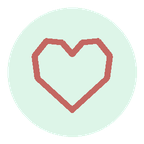
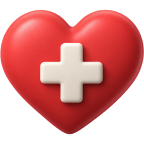
feat(ui): harmonise les emojis 3D du plan d'arret, des stats et de l'onboarding
- Onboarding : devise avant prix, nouveaux emojis 3D motivations, ecran objectif HD
- Plan : impact en 3 lignes (argent, vie recuperee par an, sante), icones coherentes
- Stats : retire le bandeau courbe, cible agrandie, mascotte sur le resume

diff --git a/src/screens/PlanScreen.js b/src/screens/PlanScreen.js
@@ -145,7 +145,6 @@ function ImpactModal({ info, onClose }) {
         <View style={im.card}>
           {info.type === 'savings'   && <SavingsBody info={info} t={t} />}
           {info.type === 'lifeMonth' && <LifeMonthBody info={info} t={t} />}
-          {info.type === 'lifeYear'  && <LifeYearBody info={info} t={t} />}
           {info.type === 'health'    && <HealthBody info={info} t={t} />}
           {!info.type && <GenericBody info={info} />}
 
@@ -178,7 +177,7 @@ function SavingsBody({ info, t }) {
           </View>
           <Text style={im.baArrow}>→</Text>
           <View style={im.baBox}>
-            <Image source={UI.cible_objectif} style={im.baIllus} resizeMode="contain" />
+            <Image source={UI.cible_fleche_feuillue} style={im.baIllus} resizeMode="contain" />
             <Text style={im.baLabel}>{t('impact.savings.goalLabel')}</Text>
             <Text style={im.baValue}>{info.savings.objectif}</Text>
             <Text style={im.baUnit}>{t('impact.savings.unitPerDay')}</Text>
@@ -188,7 +187,7 @@ function SavingsBody({ info, t }) {
 
       {info.savings && (
         <View style={im.evitees}>
-          <Image source={UI.feuille_cigarettes_evitees} style={{ width: 40, height: 40 }} resizeMode="contain" />
+          <Image source={UI.cigarette} style={{ width: 40, height: 40 }} resizeMode="contain" />
           <View style={{ flex: 1 }}>
             <Text style={im.eviteesValue}>{t('impact.savings.avoidedPerDay', { count: info.savings.cigEviteesJour })}</Text>
             <Text style={im.eviteesLabel}>{t('impact.savings.avoidedSub')}</Text>
@@ -207,7 +206,7 @@ function SavingsBody({ info, t }) {
       {/* 3 projections */}
       {info.projections && (
         <View style={im.projRow}>
-          {[UI.calendrier_mois, UI.arbre_annee, UI.montagnes_10_ans].map((img, i) => info.projections[i] && (
+          {[UI.pile_pieces_feuilles, UI.portefeuille_euros_feuilles, UI.tirelire].map((img, i) => info.projections[i] && (
             <View key={i} style={im.projCard}>
               <Image source={img} style={im.projIllus} resizeMode="contain" />
               <Text style={im.projValue}>{info.projections[i].valeur}</Text>
@@ -235,9 +234,9 @@ function LifeMonthBody({ info, t }) {
 
       {info.projections && (
         <View style={im.projRow}>
-          {[UI.horloge_mois, UI.feuille_annee, UI.coeur_10_ans].map((img, i) => info.projections[i] && (
+          {[UI.reveil, UI.calendrier_10_ans_recadre, UI.sablier_bois_feuilles].map((img, i) => info.projections[i] && (
             <View key={i} style={im.projCard}>
-              <Image source={img} style={im.projIllus} resizeMode="contain" />
+              <Image source={img} style={[im.projIllus, i === 1 && { transform: [{ scale: 1.05 }] }]} resizeMode="contain" />
               <Text style={im.projValue}>{info.projections[i].valeur}</Text>
               <Text style={im.projLabel}>{info.projections[i].label}</Text>
             </View>
@@ -246,32 +245,6 @@ function LifeMonthBody({ info, t }) {
       )}
 
       {info.note && <Text style={im.note}>{info.note}</Text>}
-    </>
-  );
-}
-
-// ── Body : Vie récupérée par an (écran 07) ───────────────────────────────────
-function LifeYearBody({ info, t }) {
-  return (
-    <>
-      <View style={im.headerRow}>
-        <Image source={UI.coeur_titre} style={im.headerIllus} resizeMode="contain" />
-        <Text style={im.titre}>{info.titre}</Text>
-      </View>
-
-      <Text style={im.explication}>{info.explication}</Text>
-
-      {info.projections && (
-        <View style={im.projRow}>
-          {[UI.feuille_annee, UI.calendrier_10_ans, UI.etoile_vie].map((img, i) => info.projections[i] && (
-            <View key={i} style={im.projCard}>
-              <Image source={img} style={im.projIllus} resizeMode="contain" />
-              <Text style={im.projValue}>{info.projections[i].valeur}</Text>
-              <Text style={im.projLabel}>{info.projections[i].label}</Text>
-            </View>
-          ))}
-        </View>
-      )}
     </>
   );
 }
@@ -506,10 +479,10 @@ export default function PlanScreen({ navigation }) {
               })}
             />
             <ImpactCard
-              img={UI.chronometre} valeur={`+${vieGagneeHMois}h`} label={t('impact.life.label')} sublabel={t('labels.perMonth')} valeurColor={colors.primary}
+              img={UI.chronometre} valeur={`+${vieGagneeJAn}j`} label={t('impact.life.label')} sublabel={t('labels.perYear')} valeurColor={colors.primary}
               onPress={() => setImpactModal({
                 type: 'lifeMonth',
-                titre: t('impact.lifeMonth.modalTitle'),
+                titre: t('impact.lifeYear.modalTitle'),
                 explication: t('impact.lifeMonth.explanation', { count: cigEviteesJour, minutes: cigEviteesJour * 5, hours: vieGagneeHMois }),
                 projections: [
                   { valeur: `+${vieGagneeHMois}h`, label: t('labels.perMonth') },
@@ -519,20 +492,7 @@ export default function PlanScreen({ navigation }) {
               })}
             />
             <ImpactCard
-              img={UI.coeur_titre} valeur={`+${vieGagneeJAn}j`} label={t('impact.life.label')} sublabel={t('labels.perYear')} valeurColor={colors.primary}
-              onPress={() => setImpactModal({
-                type: 'lifeYear',
-                titre: t('impact.lifeYear.modalTitle'),
-                explication: t('impact.lifeYear.explanation', { count: cigEviteesJour, days: vieGagneeJAn }),
-                projections: [
-                  { valeur: `+${vieGagneeJAn}j`, label: t('labels.perYear') },
-                  { valeur: `+${vie10Aff}j`, label: t('labels.per10Years') },
-                  { valeur: t('impact.lifeYear.monthsValue', { count: Math.round(vie10Aff / 30) }), label: t('impact.lifeYear.moreLifeLabel') },
-                ],
-              })}
-            />
-            <ImpactCard
-              img={UI.poumons_titre} valeur={t('impact.health.value')} label={t('impact.health.label')} sublabel={t('impact.health.sublabel')} valeurColor={colors.primary}
+              img={UI.poumons_titre} valeur={`${t('impact.health.value')} ${t('impact.health.label')}`} sublabel={t('impact.health.sublabel')} valeurColor={colors.primary}
               onPress={() => setImpactModal({
                 type: 'health',
                 titre: t('impact.health.modalTitle'),
@@ -813,13 +773,12 @@ export default function PlanScreen({ navigation }) {
 function ImpactCard({ img, valeur, label, sublabel, valeurColor = colors.black, onPress }) {
   return (
     <TouchableOpacity style={styles.impactCard} onPress={onPress} activeOpacity={0.7}>
-      <View style={{ flexDirection: 'row', width: '100%', justifyContent: 'space-between' }}>
-        <Image source={img} style={styles.impactIllus} resizeMode="contain" />
-        <Text style={{ fontSize: 13, color: colors.gray }}>ⓘ</Text>
+      <Image source={img} style={styles.impactIllus} resizeMode="contain" />
+      <View style={{ flex: 1 }}>
+        <Text style={[styles.impactValeur, { color: valeurColor }]}>{valeur}</Text>
+        <Text style={styles.impactLabel}>{[label, sublabel].filter(Boolean).join(' · ')}</Text>
       </View>
-      <Text style={[styles.impactValeur, { color: valeurColor }]}>{valeur}</Text>
-      <Text style={styles.impactLabel}>{label}</Text>
-      <Text style={styles.impactSub}>{sublabel}</Text>
+      <Text style={{ fontSize: 13, color: colors.gray }}>ⓘ</Text>
     </TouchableOpacity>
   );
 }
@@ -876,16 +835,14 @@ const styles = StyleSheet.create({
   },
 
   // Impact
-  impactGrid: { flexDirection: 'row', flexWrap: 'wrap', gap: spacing.sm },
+  impactGrid: { gap: spacing.sm },
   impactCard: {
-    width: (SCREEN_W - spacing.md * 4 - spacing.sm) / 2,
+    flexDirection: 'row', alignItems: 'center', gap: spacing.sm,
     backgroundColor: '#F7F8FA', borderRadius: radius.lg, padding: spacing.sm,
-    alignItems: 'flex-start',
   },
-  impactIllus:  { width: 30, height: 30, marginBottom: 4 },
+  impactIllus:  { width: 40, height: 40 },
   impactValeur: { fontSize: font.md, fontWeight: '800', color: colors.black },
-  impactLabel:  { fontSize: 11, color: colors.gray },
-  impactSub:    { fontSize: 10, color: colors.gray },
+  impactLabel:  { fontSize: 11, color: colors.gray, marginTop: 2 },
 
   // Projection
   projRow: { flexDirection: 'row', alignItems: 'center', justifyContent: 'space-between', marginBottom: spacing.sm },

diff --git a/src/screens/onboarding/OnboardingFlow.js b/src/screens/onboarding/OnboardingFlow.js
@@ -38,6 +38,10 @@ const REDUCTION_RYTHME_HD = {
   goal: require('../../../assets/onboarding/reduction-rythme-hd/objectif-du-jour.png'),
   journey: require('../../../assets/onboarding/stopklop-illustrations-hd/illustrations/09-reduction-progressive.jpg'),
 };
+const OBJECTIF_HD = {
+  reduce: require('../../../assets/onboarding/objectif-hd/reduire-progressivement.png'),
+  stop: require('../../../assets/onboarding/objectif-hd/arreter-completement.png'),
+};
 const DESIGN = { ink: '#0B5135', green: '#0AA85B', muted: '#4B6358', mint: '#DDF5E8', border: '#E6EEE9' };
 
 // Police livrée avec la maquette finale, limitée à l'onboarding.
@@ -231,10 +235,10 @@ export default function OnboardingFlow({ navigation, route }) {
     'objectif',                        // 10
     'conso',                           // 11
     'paquet',                          // 12
-    'prix',                            // 13
-    'dateDebut',                       // 14
-    'objectifQuotidien',               // 15 (si réduction)
-    'devise',                          // 16
+    'devise',                          // 13
+    'prix',                            // 14
+    'dateDebut',                       // 15
+    'objectifQuotidien',               // 16 (si réduction)
     'motivations',                     // 17
     'niveauMotivation',                // 18
     'synthese',                        // 19
@@ -556,7 +560,6 @@ export default function OnboardingFlow({ navigation, route }) {
             <StatCard img={V2.statTime} teinte="#EFE9FB"
               valeur={t('benefits.stats.timeValue')} label={t('benefits.stats.timeNote')} />
             <View style={st.chartCard}>
-              <Text style={st.chartCardTitre}>{t('benefits.stats.chartTitle')}</Text>
               <Image source={V2.courbeEvolution} style={st.chartAsset} resizeMode="contain" />
             </View>
             <Text style={st.disclaimer}>{t('benefits.stats.disclaimer')}</Text>
@@ -569,28 +572,26 @@ export default function OnboardingFlow({ navigation, route }) {
   else if (page === 'objectif') {
     body = (
       <>
-        <Text style={st.title}>{t('goalType.title')}</Text>
-        <Text style={st.subtitle}>{t('goalType.subtitle')}</Text>
+        <Text style={st.goalTypeTitle}>{t('goalType.title')}</Text>
+        <Text style={st.goalTypeSubtitle}>{t('goalType.subtitle')}</Text>
         {[
-          { key: 'reduce', img: V2.goalReduce, titre: t('goalType.options.reduce.title'), desc: t('goalType.options.reduce.desc') },
-          { key: 'stop',   img: V2.goalStop,   titre: t('goalType.options.stop.title'),   desc: t('goalType.options.stop.desc') },
+          { key: 'reduce', img: OBJECTIF_HD.reduce, titre: t('goalType.options.reduce.title') },
+          { key: 'stop',   img: OBJECTIF_HD.stop,   titre: t('goalType.options.stop.title') },
         ].map(o => (
           <TouchableOpacity
             key={o.key}
-            style={[st.objectifCard, o.key === 'stop' && st.objectifCardStop, answers.typeObjectif === o.key && st.objectifCardActive]}
+            style={[st.objectifHdCard, o.key === 'stop' && st.objectifHdCardStop, answers.typeObjectif === o.key && st.objectifCardActive]}
             onPress={() => set('typeObjectif', o.key)}
           >
-            <Image source={o.img} style={st.objectifImg} resizeMode="contain" />
-            <View style={{ flex: 1 }}>
-              <Text style={st.choixTitre}>{o.titre}</Text>
-              <Text style={st.choixDesc}>{o.desc}</Text>
+            <View style={st.objectifHdCopy}>
+              <Text style={[st.objectifHdTitle, o.key === 'stop' && st.objectifHdTitleStop]}>{o.titre}</Text>
             </View>
+            <Image source={o.img} style={st.objectifHdImage} resizeMode="contain" />
             {answers.typeObjectif === o.key && (
-              <View style={st.checkBadge}><Text style={{ color: '#fff', fontWeight: '800' }}>✓</Text></View>
+              <View style={[st.checkBadge, st.objectifHdBadge]}><Text style={{ color: '#fff', fontWeight: '800' }}>✓</Text></View>
             )}
           </TouchableOpacity>
         ))}
-        <Text style={st.footerNote}>{t('goalType.note')}</Text>
       </>
     );
   }
@@ -649,6 +650,31 @@ export default function OnboardingFlow({ navigation, route }) {
             <Text style={st.stepperBtnText}>+</Text>
           </TouchableOpacity>
         </View>
+      </>
+    );
+  }
+
+  else if (page === 'devise') {
+    body = (
+      <>
+        <Text style={st.title}>{t('currency.title')}</Text>
+        <Text style={st.subtitle}>{t('currency.subtitle')}</Text>
+        {DEVISES.map(d => (
+          <TouchableOpacity
+            key={d.code}
+            style={[st.choixCard, answers.monnaie === d.code && st.choixCardActive]}
+            onPress={() => set('monnaie', d.code)}
+          >
+            <Image source={DEVISE_ICONS[d.code]} style={{ width: 48, height: 48 }} resizeMode="contain" />
+            <View style={{ flex: 1 }}>
+              <Text style={st.choixTitre}>{t(`currency.options.${d.code}.name`)}</Text>
+              <Text style={st.choixDesc}>{t(`currency.options.${d.code}.code`)}</Text>
+            </View>
+            {answers.monnaie === d.code && (
+              <View style={st.checkBadge}><Text style={{ color: '#fff', fontWeight: '800' }}>✓</Text></View>
+            )}
+          </TouchableOpacity>
+        ))}
       </>
     );
   }
@@ -721,31 +747,6 @@ export default function OnboardingFlow({ navigation, route }) {
             {t('dailyGoal.error', { count: consoNormalisee })}
           </Text>
         )}
-      </>
-    );
-  }
-
-  else if (page === 'devise') {
-    body = (
-      <>
-        <Text style={st.title}>{t('currency.title')}</Text>
-        <Text style={st.subtitle}>{t('currency.subtitle')}</Text>
-        {DEVISES.map(d => (
-          <TouchableOpacity
-            key={d.code}
-            style={[st.choixCard, answers.monnaie === d.code && st.choixCardActive]}
-            onPress={() => set('monnaie', d.code)}
-          >
-            <Image source={DEVISE_ICONS[d.code]} style={{ width: 48, height: 48 }} resizeMode="contain" />
-            <View style={{ flex: 1 }}>
-              <Text style={st.choixTitre}>{t(`currency.options.${d.code}.name`)}</Text>
-              <Text style={st.choixDesc}>{t(`currency.options.${d.code}.code`)}</Text>
-            </View>
-            {answers.monnaie === d.code && (
-              <View style={st.checkBadge}><Text style={{ color: '#fff', fontWeight: '800' }}>✓</Text></View>
-            )}
-          </TouchableOpacity>
-        ))}
       </>
     );
   }
@@ -1368,6 +1369,20 @@ const st = StyleSheet.create({
   objectifCardStop: { backgroundColor: '#FBF8FF', borderColor: '#E5DCF1' },
   objectifCardActive: { borderColor: DESIGN.green, borderWidth: 2 },
   objectifImg: { width: 78, height: 78 },
+  goalTypeTitle: { color: DESIGN.ink, fontSize: 27, lineHeight: 34, fontWeight: '700', textAlign: 'center', marginTop: 6 },
+  goalTypeSubtitle: { color: DESIGN.muted, fontSize: 16, lineHeight: 23, textAlign: 'center', marginTop: 17, marginBottom: 30, paddingHorizontal: 16 },
+  objectifHdCard: { minHeight: 124, flexDirection: 'row', alignItems: 'center', overflow: 'hidden', borderWidth: 1.5, borderColor: '#D5EBDC', borderRadius: 22, marginBottom: 20, backgroundColor: '#F1FBF4' },
+  objectifHdCardStop: { backgroundColor: '#FBF8FF', borderColor: '#E7DEF4' },
+  objectifHdCopy: { flex: 1, paddingLeft: 20, paddingRight: 6 },
+  // « progressivement » est le mot le plus long : il doit tenir avec de la
+  // marge, sinon il se coupe dès que la bordure de sélection (2 pt) mange un
+  // pixel. 18 pt + illustration 106 pt laissent ~20 pt de jeu.
+  objectifHdTitle: { color: '#0A9C56', fontSize: 18, lineHeight: 24, fontWeight: '700' },
+  objectifHdTitleStop: { color: '#7047B5' },
+  objectifHdImage: { width: 106, height: 88, marginRight: 14 },
+  // Coche posée dans le coin : dans la rangée, elle recomprimait la colonne
+  // de texte et recoupait « progressivement » au milieu du mot.
+  objectifHdBadge: { position: 'absolute', top: 10, right: 10 },
   choixTitre: { fontSize: font.md, fontWeight: '700', color: colors.black },
   choixDesc:  { fontSize: 12, color: colors.gray, marginTop: 2 },
   choixImg:   { width: 52, height: 52, borderRadius: 26 },

diff --git a/src/screens/StatistiquesScreen.js b/src/screens/StatistiquesScreen.js
@@ -799,14 +799,6 @@ export default function StatistiquesScreen() {
             <Text style={styles.unreportedLegend}>● {t('smokedCard.unreportedLegend')}</Text>
           )}
 
-          {/* Bannière conseil sous le graphique (réf. maquette) */}
-          <View style={styles.chartTip}>
-            <Text style={styles.chartTipIcon}>🍃</Text>
-            <Text style={styles.chartTipText}>
-              {p.progression >= 0 ? t('smokedCard.tipPositive') : t('smokedCard.tipNegative')}
-            </Text>
-          </View>
-
           {/* Overlay : nombre de cigarettes du jour/mois tapé, sans changer de page */}
           {tappedIndex != null && view.fullLabel && (
             <View style={styles.tapOverlay}>
@@ -993,7 +985,7 @@ export default function StatistiquesScreen() {
 
         {/* ── Résumé narratif (pas de liste à puces — réf. maquette) ── */}
         <View style={styles.summaryCard}>
-          <Image source={UI.pousse_resume} style={styles.summaryIllus} resizeMode="contain" />
+          <Image source={UI.mascotte_entete} style={styles.summaryIllus} resizeMode="contain" />
           <View style={{ flex: 1, minWidth: 0 }}>
             <Text style={styles.summaryTitle}>{t('summaryCard.title')}</Text>
             <Text style={styles.summaryText}>
@@ -1040,7 +1032,7 @@ const styles = StyleSheet.create({
   card:   { backgroundColor: colors.surface, borderRadius: radius.xl, padding: spacing.lg, borderWidth: 1, borderColor: colors.grayBorder, ...shadow.card },
   cardHeader: { flexDirection: 'row', alignItems: 'center', gap: 6, marginBottom: spacing.sm },
   cardIcon:   { fontSize: 18 },
-  cardIllus:  { width: 28, height: 28 },
+  cardIllus:  { width: 38, height: 38 },
   cardTitle:  { fontSize: font.sm, fontWeight: '700', color: colors.black, flex: 1 },
   cardPeriod: { fontSize: 11, color: colors.gray },
 
@@ -1182,9 +1174,6 @@ const styles = StyleSheet.create({
   chartTagText: { fontSize: 11, fontWeight: '700', color: colors.primaryDeep },
 
   // Bannière conseil sous le graphique
-  chartTip: { flexDirection: 'row', alignItems: 'center', gap: 6, backgroundColor: colors.primaryLight, borderRadius: radius.md, padding: spacing.sm, marginTop: spacing.sm },
-  chartTipIcon: { fontSize: 14 },
-  chartTipText: { flex: 1, fontSize: 11, color: colors.primaryDeep, fontWeight: '600' },
 
   // Carte 3 colonnes : Total / Moyenne quotidienne / Diminution
   threeColCard: {

diff --git a/src/assets/uiKit.js b/src/assets/uiKit.js
@@ -70,6 +70,7 @@ export const UI = {
 
   // 07 — Plan : vie par an
   calendrier_10_ans:     require('../../assets/ui-kit/calendrier_10_ans_3d.png'),
+  calendrier_10_ans_recadre: require('../../assets/ui-kit/calendrier_10_ans_recadre_3d.png'),
   coeur_titre:           require('../../assets/ui-kit/coeur_titre_3d.png'),
   etoile_vie:            require('../../assets/ui-kit/etoile_vie_3d.png'),
 
